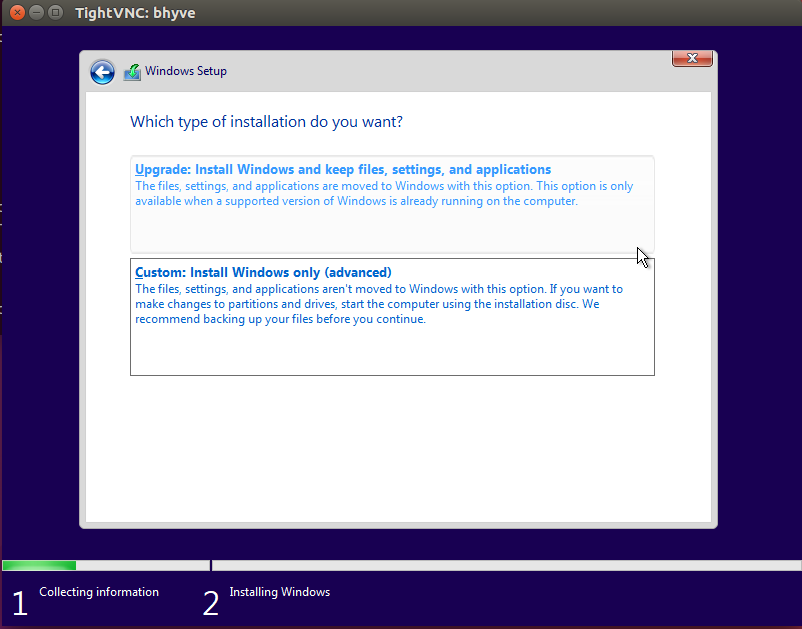
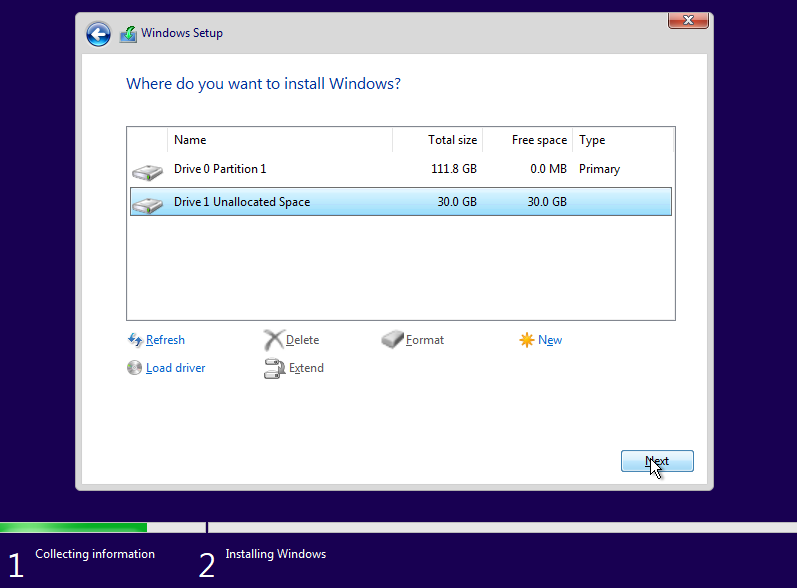
doc: Update WaaG GSG to use ACRNGT GOP to install Windows

diff --git a/doc/tutorials/using_windows_as_uos.rst b/doc/tutorials/using_windows_as_uos.rst
@@ -313,93 +313,89 @@ Run these commands on the Service VM::
 
 Install Windows 10
 ------------------
-Currently, the ACRNGT OVMF GOP driver is not ready; thus, a special VGA
-version is used to install Windows 10 on ACRN from scratch. The
-``acrn.efi``, ``acrn-dm`` and ``OVMF`` binaries are included in the
-`tarball
-<https://raw.githubusercontent.com/projectacrn/acrn-hypervisor/master/doc/tutorials/install_by_vga_gsg.tar.gz>`_
-together with the script used to install Windows 10.
-Make sure the Service VM version is 31300.
 
-#. Uncompress ``install_by_vga_gsg.tar.gz`` to the Service VM::
+   .. note:: Please make sure you have configured your monitor and display according to **3** of
+      :ref:`Boot Windows with GVT-g on ACRN <waag_display_conf_lable>`.
 
-   # tar zxvf install_by_vga_gsg.tar.gz && cd install_by_vga_gsg
+#. Make a copy from ``/usr/share/acrn/samples/nuc/launch_win.sh`` to ``install_win.sh``::
 
-#. Edit the ``acrn-dm`` command line in ``install_vga.sh`` if your configuration is different.
+   # cp /usr/share/acrn/samples/nuc/launch_win.sh ~/install_win.sh
+
+#. Add the following lines **before** ``acrn-dm`` command line in ``install_win.sh``. It is used
+   to passthrough USB to WaaG, by which both mouse and keyboard can be used during Windows installation::
+
+      echo "8086 9d2f" > /sys/bus/pci/drivers/pci-stub/new_id
+      echo "0000:00:14.0" > /sys/bus/pci/devices/0000:00:14.0/driver/unbind
+      echo "0000:00:14.0" > /sys/bus/pci/drivers/pci-stub/bind
+
+   .. note:: You may need to change the bdf and vid/pid of the USB controller in above command to match those
+      of your platform. You can use ``lspci`` and ``lspci -n`` to get this information.
+
+#. Edit the ``acrn-dm`` command line in ``install_win.sh`` as follows:
 
    - Change ``-s 3,virtio-blk,./win10-ltsc-virtio.img`` to your path to the Windows 10 image.
-   - Change ``-s 8,ahci,cd:./windows10-17763-107-LTSC-Virtio-Gfx.iso`` to the ISO you re-generated above.
-   - Change ``-s 9,ahci,cd:./virtio-win-0.1.141.iso`` to your path to the virtio-win iso.
+   - Add ``-s 6,passthru,0/14/0``.
+
+    .. note:: You may need to change 0/14/0 to match bdf of the USB controller of your platform.
+
+   - Add ``-s 8,ahci,cd:./windows10-17763-107-LTSC-Virtio-Gfx.iso`` to point to the ISO you re-generated above.
+   - Add ``-s 9,ahci,cd:./virtio-win-0.1.141.iso`` to point to your path to the virtio-win iso.
 
    Or if you used the Oracle driver:
 
-   - Change ``-s 9,ahci,cd:./winvirtio.iso`` to your path to the winvirtio iso.
+   - Add ``-s 9,ahci,cd:./winvirtio.iso`` to point to your path to the winvirtio iso.
 
-#. Run ``install_vga.sh`` and connect to the Windows guest using a vnc client.::
+#. Run ``install_win.sh``.
 
-   # vncviewer <IP-OF-HOST-MACHINE>:5900
-
-#. Input ``exit`` followed by :kbd:`ENTER`
+#. When it is showing "Press any key to boot from CD or DVD" on the monitor, press any key in the terminal on
+   **Host** side.
 
    .. figure:: images/windows_install_1.png
       :align: center
 
-#. Select ``Boot Manager``
-
    .. figure:: images/windows_install_2.png
       :align: center
-
-#. Select ``UEFI ACRN-DM SATA DVD ROM ACRN--F9B7-5503-A05B``, which is using the PCI slot 7.
-   This is what we configured in the script for the Windows ISO cdrom.
 
    .. figure:: images/windows_install_3.png
       :align: center
 
-#. Select :kbd:`ENTER` followed by any key press to be prompted to the Windows installation screen.
+#. Click **Load driver**.
 
    .. figure:: images/windows_install_4.png
       :align: center
 
+#. Click :kbd:`Browser` and go to the drive which includes virtio win drivers. Select **viostor\\w10\\amd64\\viostor.inf**
+   or **viostororcl.inf** if you are using Oracle virtio drivers and install virtio block driver.
+
    .. figure:: images/windows_install_5.png
       :align: center
+
+#. Select the virtio block drive and click :kbd:`Next`.
 
    .. figure:: images/windows_install_6.png
       :align: center
 
-This is the step to install the Oracle Driver
-
-   .. figure:: images/windows_install_A.png
-      :align: center
-
-   .. figure:: images/windows_install_B.png
-      :align: center
-
-   .. figure:: images/windows_install_C.png
-      :align: center
+#. Continue the installation.
 
    .. figure:: images/windows_install_7.png
       :align: center
 
+#. System will restart.
+
    .. figure:: images/windows_install_8.png
       :align: center
 
-#. Connect again after Windows guest reboots. Use ``vncviewer <IP-OF-HOST-MACHINE>:5900``.
+#. Windows will restart several times and finally you are asked to configure your system.
 
    .. figure:: images/windows_install_9.png
       :align: center
 
-#. Connect again after Windows guest reboots a second time. Use ``vncviewer <IP-OF-HOST-MACHINE>:5900``.
+#. Windows installation is complete after a few configuation steps, and you get to the Windows desktop.
 
    .. figure:: images/windows_install_10.png
       :align: center
 
-#. Perform a few configuration steps. The Windows desktop appears.
-
-   .. figure:: images/windows_install_11.png
-      :align: center
-
-   .. figure:: images/windows_install_12.png
-      :align: center
+.. _waag_display_conf_lable:
 
 Boot Windows with GVT-g on ACRN
 ===============================
